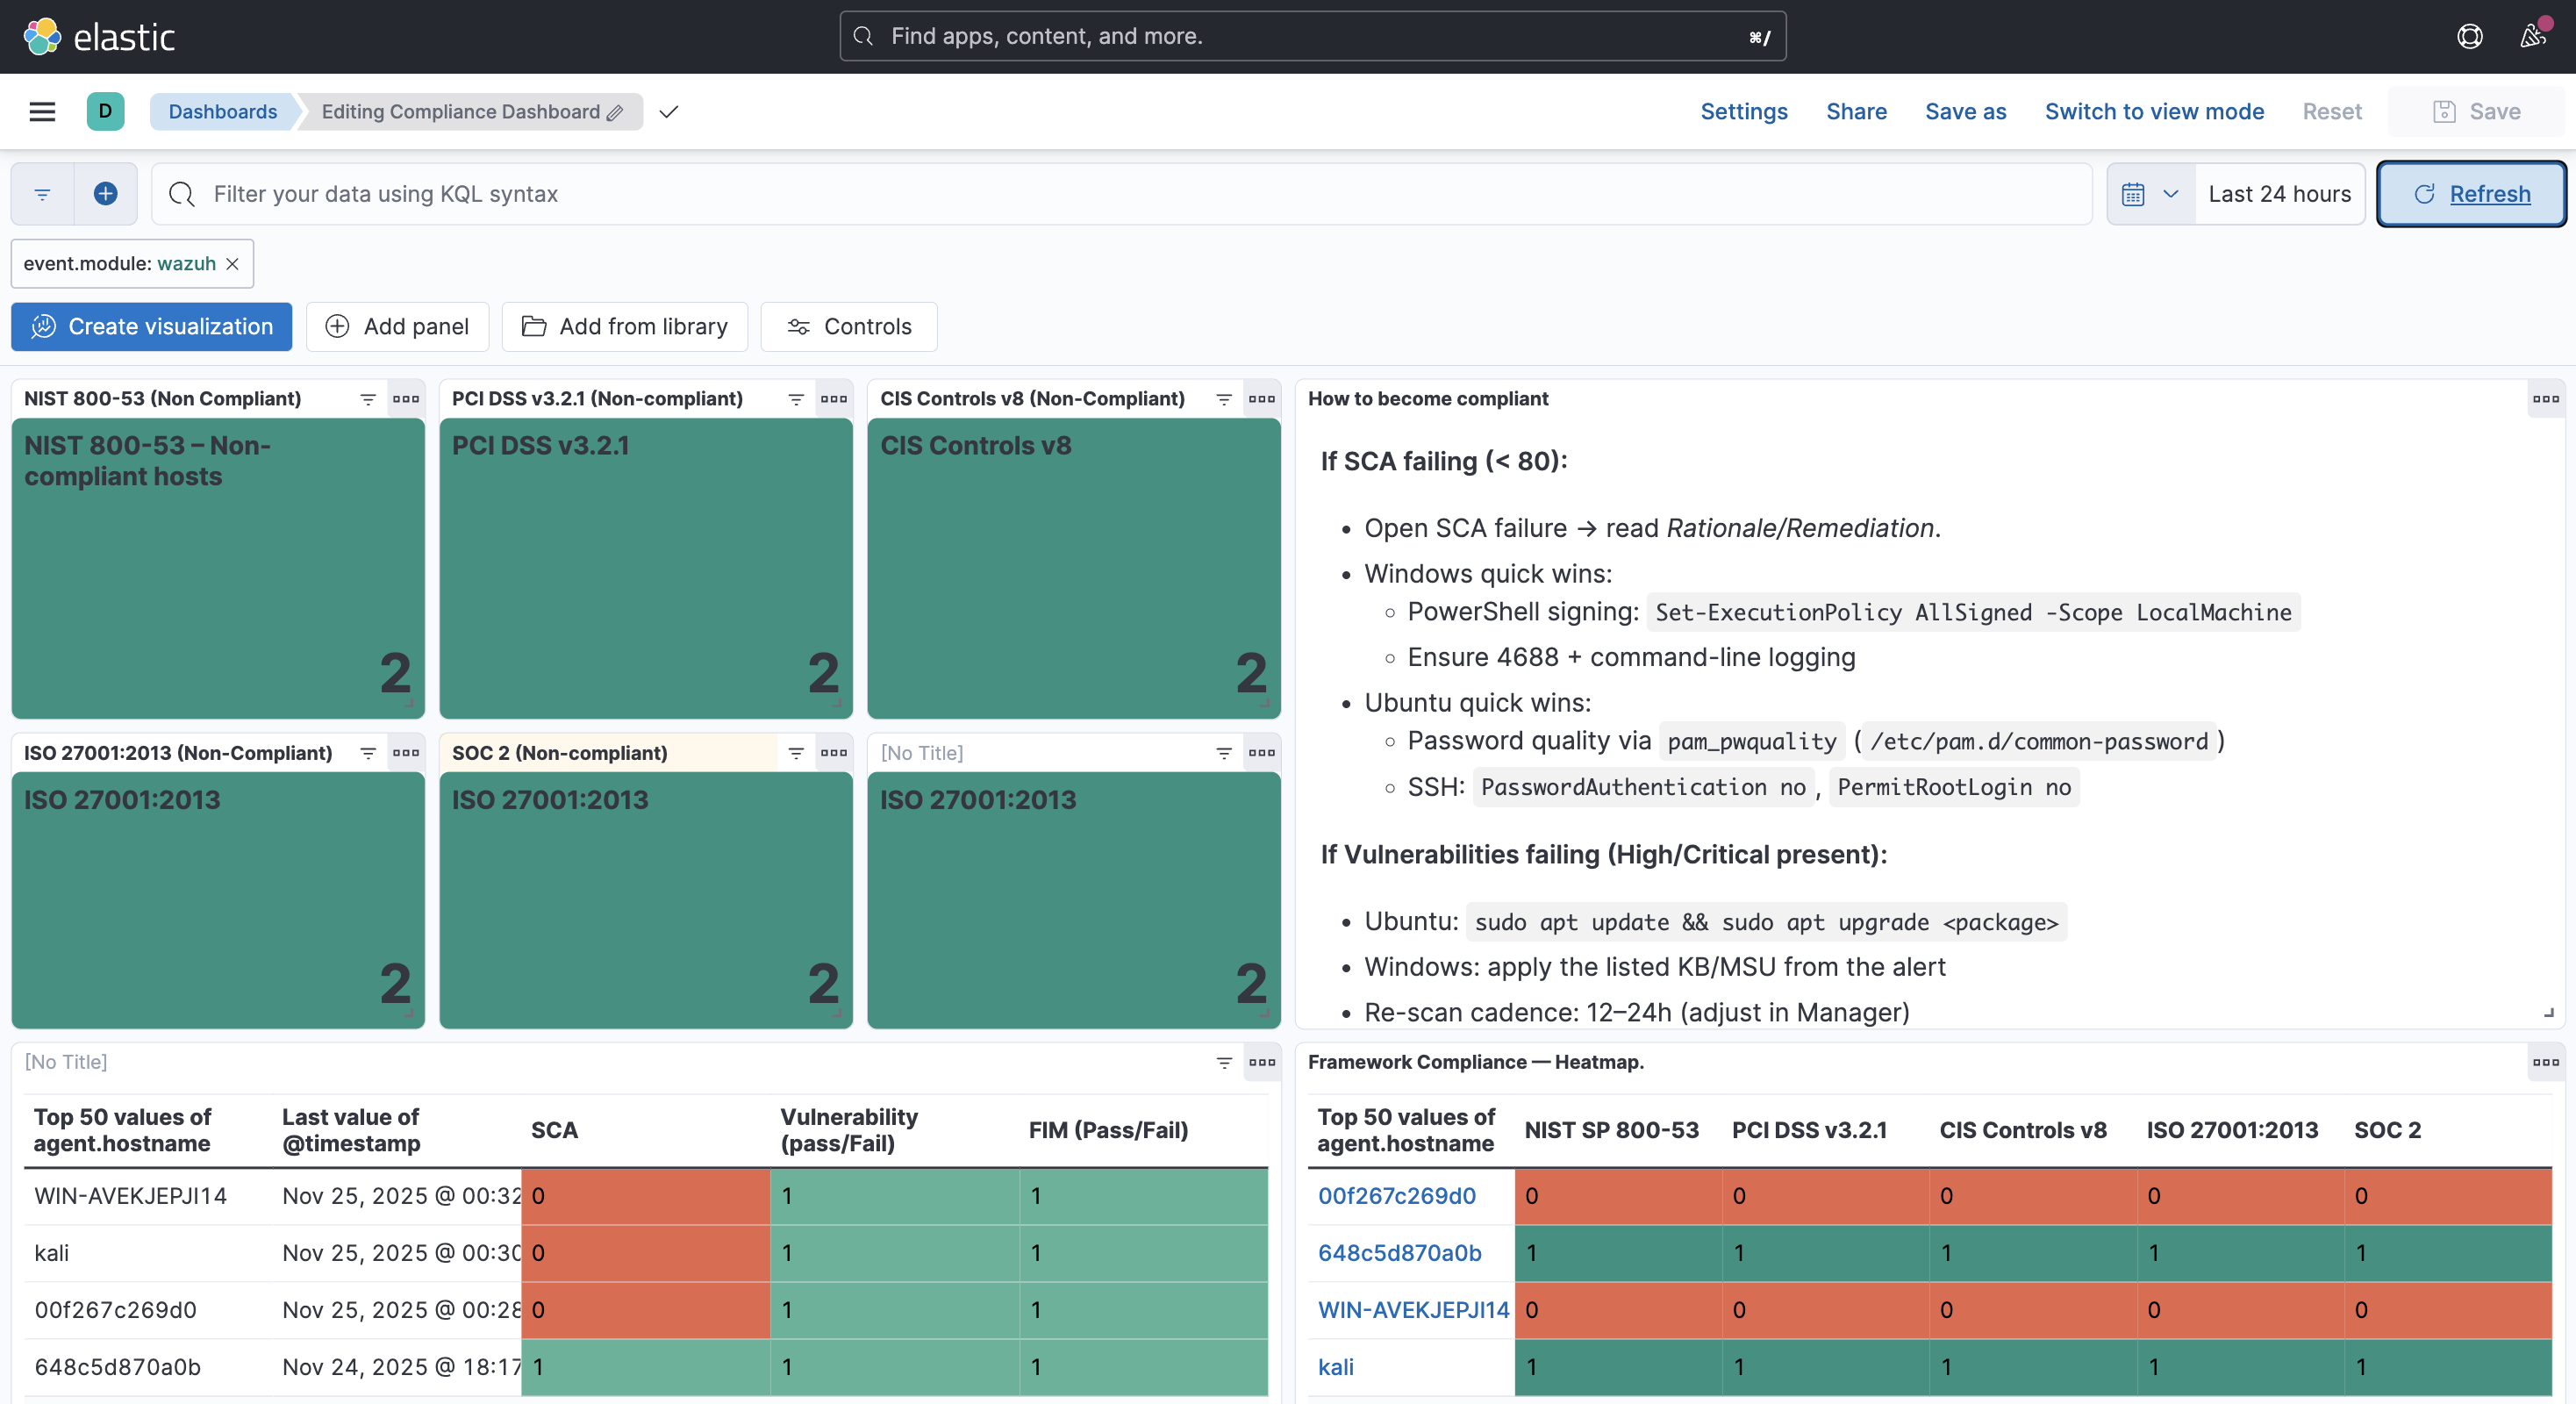
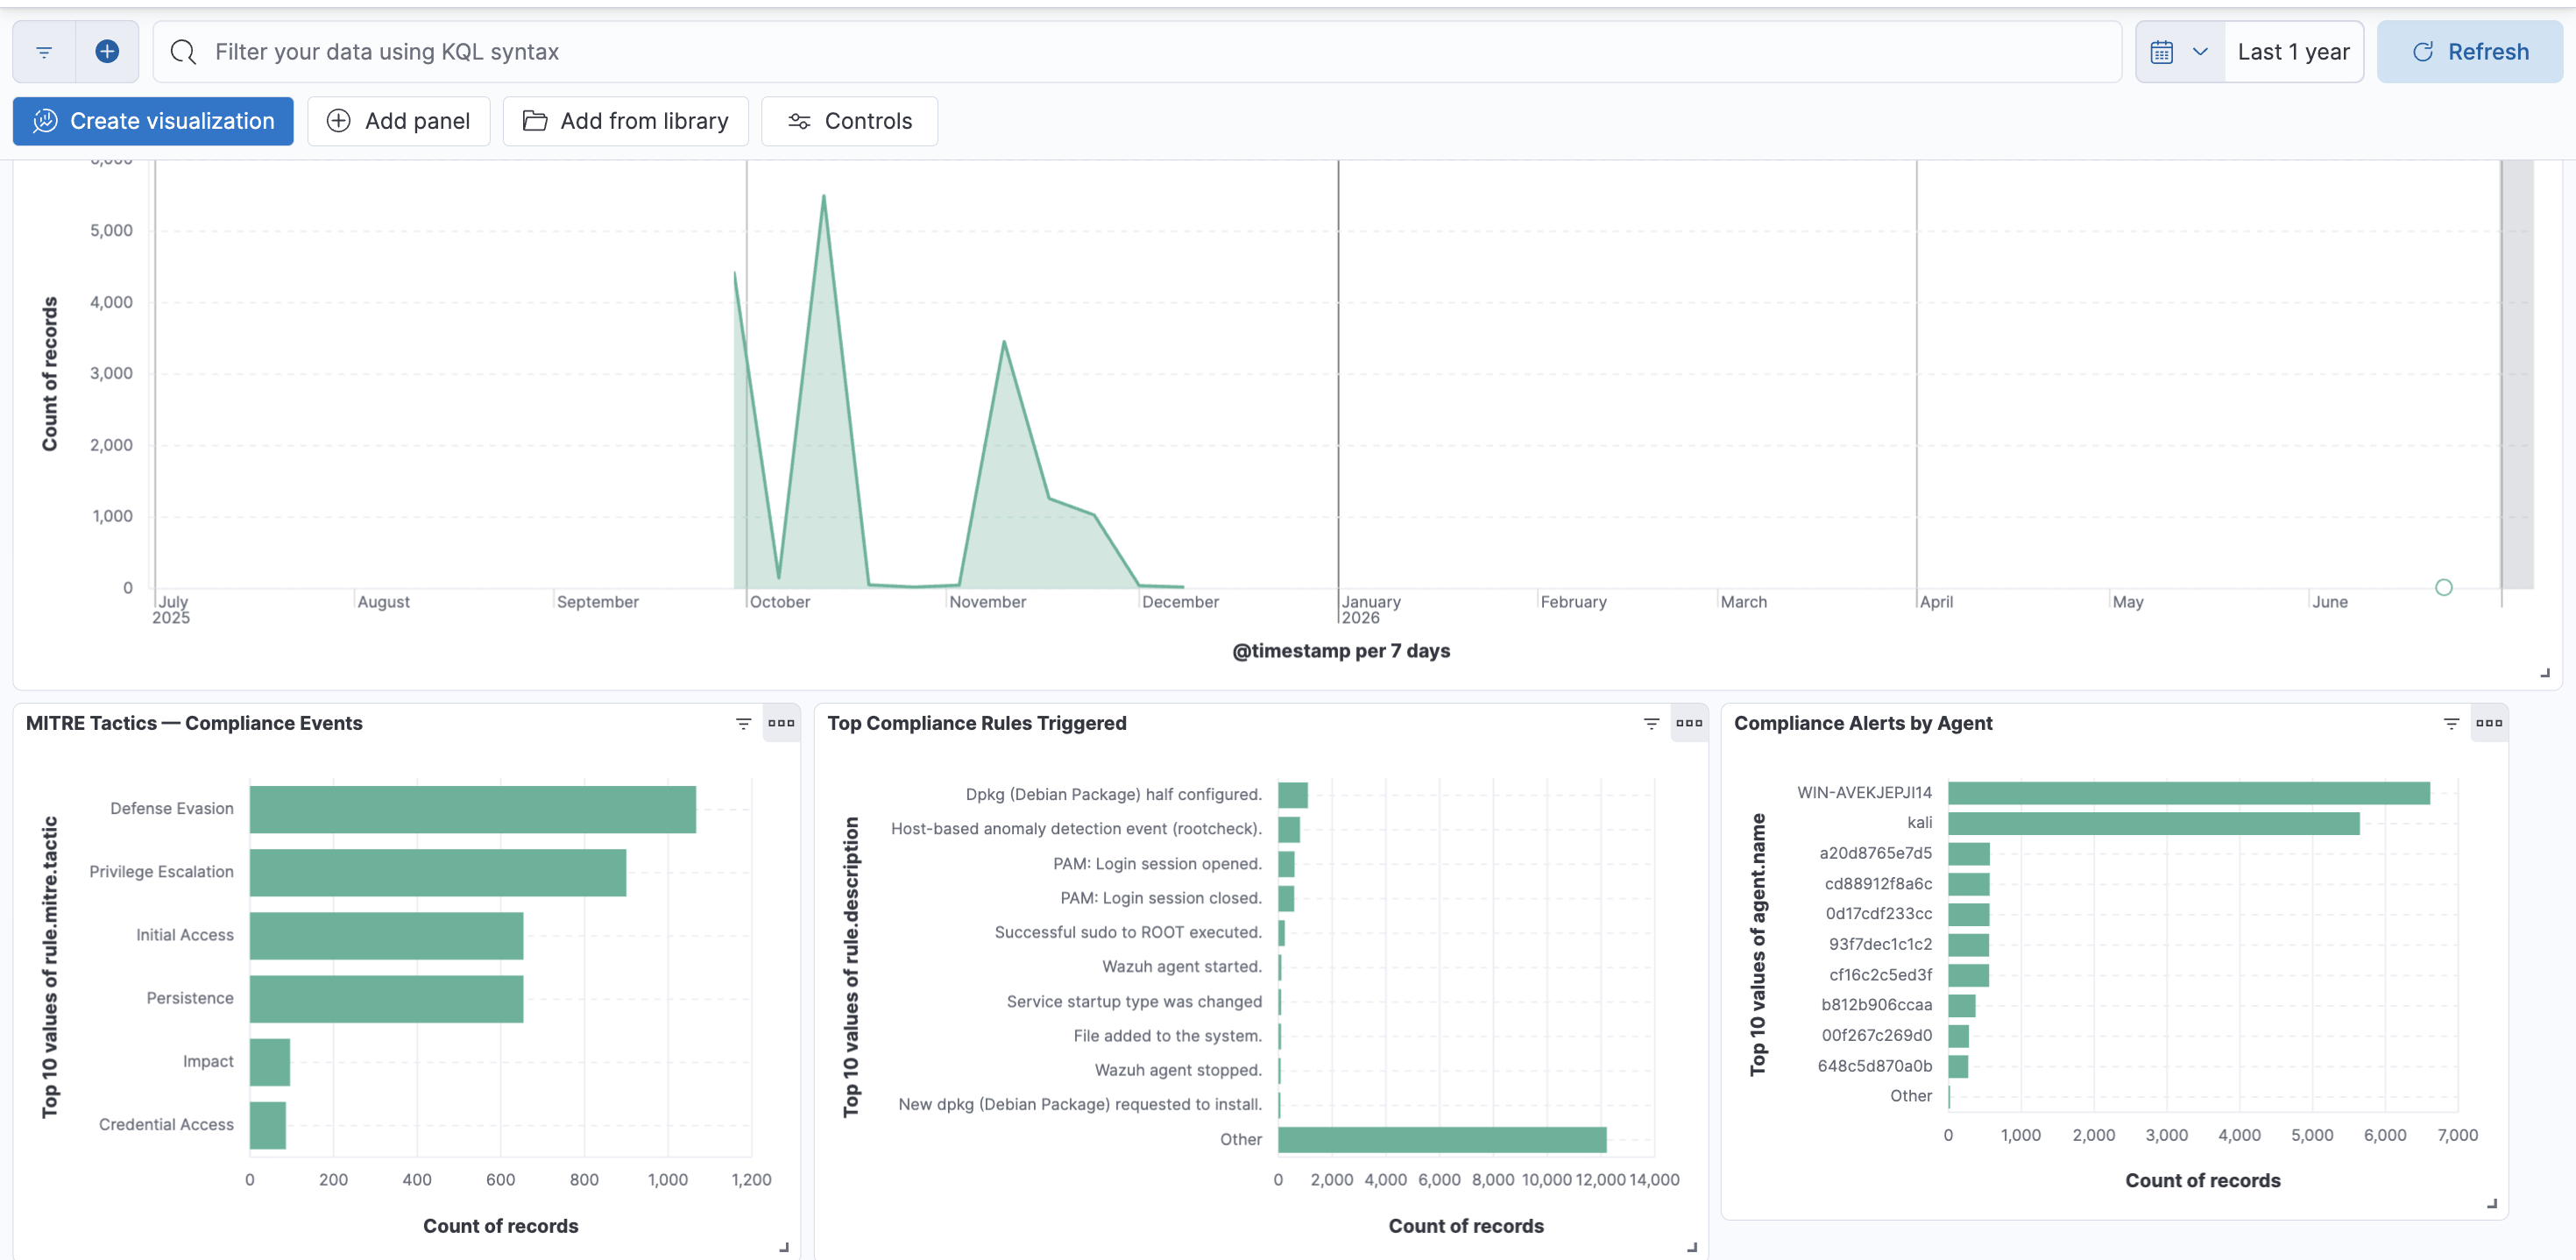
Move TheHive to dedicated port under soc.local instead of separate subdomain

diff --git a/README.md b/README.md
@@ -1,28 +1,175 @@
-# SOCaaS for SMEs – Blue Team Home Lab
+# TIGARSEC SOCaaS — Autonomous SOC for SMEs
 
-**Goal:** Build a scalable, affordable SOC-as-a-Service stack for small & medium enterprises.  
-Current stack: **Elasticsearch + Wazuh + Winlogbeat/Filebeat**.  
-Planned: **Suricata IDS/IPS integration**.
+**An open-source, autonomous Security Operations Centre built for small and medium enterprises who need continuous monitoring without an enterprise budget or a 24/7 analyst team.**
 
-## Why this matters
-- SMEs often lack 24/7 SOC coverage.
-- This lab demonstrates how open-source tooling can provide **visibility**, **detection**, and **actionable alerts** without enterprise costs.
+> A physical person does not need to watch a dashboard all day. The platform detects, triages, enriches, and escalates — a human only gets pulled in when something genuinely matters.
 
-## Architecture (current phase)
-- **Windows & Linux VMs** -> Winlogbeat & Filebeat -> Elasticsearch (raw telemetry).
-- **Wazuh Agents** -> Wazuh Manager (decoders/rules) -> Elasticsearch (curated alerts).
-- **Mac Host** runs Elasticsearch, Kibana, and Wazuh Manager.
-
-## Roadmap
-- [x] Collect host logs (Windows/Linux).
-- [x] Integrate Wazuh alerts into Elastic.
-- [ ] Add Suricata for network IDS/IPS.
-- [ ] Build correlation dashboards (host <-> network <-> alert).
-- [ ] Publish detection rules (Sigma/KQL/Wazuh).
-
-## Next steps
-Documentation, architecture diagrams, detection logic, and test results will be added in `docs/`.
+![Architecture Diagram](docs/images/Architecture.png)
 
 ---
 
- *Work in progress. First milestone: baseline SOC ingest + Wazuh curation.*
+## What this is
+
+Most SMEs fall into one of two traps: they buy a firewall and call it security, or they outsource to a managed provider with zero visibility into what's actually happening on their own systems. Neither gives them a real audit trail, and in regulated sectors like fintech, that absence is a compliance failure waiting to happen.
+
+This project is a fully working alternative — a SOC platform that runs autonomously, triages every alert by severity, enriches critical events with threat intelligence, opens a case automatically, and only notifies a human for things that genuinely require action.
+
+It is built entirely on open-source tooling and is designed to be deployable by a single person on a laptop, a VM, or a small dedicated server.
+
+---
+
+## Architecture
+
+```
+[Agents: Windows / Linux / Sysmon]
+              ↓
+       [Wazuh Manager]
+   (detection, rules, FIM, vuln scanning)
+              ↓
+   ┌──────────┴──────────┐
+   ↓                      ↓
+[Filebeat]          [Wazuh Integration]
+   ↓                      ↓
+[Elasticsearch]      [n8n webhook]
+   ↓                      ↓
+[Kibana]            [Severity triage]
+                    Level ≥ 12 → AbuseIPDB enrichment
+                          ↓
+                    [TheHive case created]
+                          ↓
+                    [WhatsApp / Slack / Email]
+```
+
+**Detection layer** — Wazuh Manager applies decoders and rules to every agent event, flags file integrity violations, runs vulnerability scans against NVD/vendor feeds, and tags alerts with PCI-DSS, GDPR, HIPAA, and MITRE ATT&CK metadata out of the box.
+
+**Storage and visualisation** — Filebeat ships every alert into Elasticsearch. Kibana provides four purpose-built dashboards: Security Overview, Authentication, PCI-DSS Compliance, and Agent Health.
+
+**Automation layer** — every alert at severity level 7+ is forwarded via webhook to n8n, an open-source workflow engine. Alerts are triaged by severity, critical events (level 12+) are enriched with AbuseIPDB threat intelligence, and a case is automatically opened in TheHive.
+
+**Notification layer** — critical alerts are pushed to WhatsApp with full context (rule, affected host, source IP, AbuseIPDB confidence score, country, ISP) so an analyst can make a decision without opening a dashboard first.
+
+---
+
+## Stack
+
+| Component | Role |
+|---|---|
+| [Wazuh](https://wazuh.com) | Host-based detection, FIM, vulnerability scanning |
+| [Elasticsearch](https://www.elastic.co) | Log storage and indexing |
+| [Kibana](https://www.elastic.co/kibana) | Dashboards and visualisation |
+| [n8n](https://n8n.io) | SOAR — alert triage, enrichment, automation |
+| [TheHive](https://strangebee.com/thehive) | Case management and audit trail |
+| [AbuseIPDB](https://www.abuseipdb.com) | IP reputation enrichment |
+| Docker / Docker Compose | Full containerised deployment |
+
+---
+
+## What it detects
+
+Wazuh ships with rules covering SSH, web servers, databases, Windows security events, cloud platforms, and dozens of other sources. On top of that, this project adds a custom rule layer designed for multi-sector SOC delivery:
+
+- `local_rules.xml` — base rules applied to every client (brute force escalation, privilege escalation, critical file integrity, CVE severity elevation)
+- `tigarsec-fintech-rules.xml` — PCI-DSS mapped rules (failed sudo, after-hours access, SQL injection, web scanner detection, credential stuffing indicators)
+- `tigarsec-healthcare-rules.xml` / `tigarsec-legal-rules.xml` — sector-specific placeholders, populated per client via Wazuh agent groups
+
+This structure means a single Wazuh manager can serve multiple clients across different regulated sectors without rules bleeding between them.
+
+---
+
+## Dashboards
+
+| Dashboard | Purpose |
+|---|---|
+| Security Overview | Alert volume, severity distribution, top triggered rules, top source IPs |
+| Authentication | Failed login trends, most targeted users, failures by agent |
+| PCI-DSS Compliance | Controls triggered, MITRE ATT&CK tactic breakdown, compliance trend over time |
+| Agent Health | Active agent count, alert volume per agent, last-seen timestamps |
+
+![Compliance Dashboard](docs/images/dashboard-compliance1.png)
+
+---
+
+## Quick Start
+
+### Prerequisites
+- Docker Desktop
+- 8GB+ RAM available to Docker
+- A free [AbuseIPDB](https://www.abuseipdb.com/register) API key
+
+### 1. Clone and configure
+
+```bash
+git clone https://github.com/NICANDIAS/SOCaaS_for_SMEs.git
+cd SOCaaS_for_SMEs
+```
+
+### 2. Bring up the stack
+
+```bash
+docker compose up -d
+```
+
+This starts Elasticsearch, Kibana, Wazuh Manager, Filebeat, n8n, TheHive, and Cassandra.
+
+### 3. Import the n8n workflow
+
+1. Open `http://localhost:5678`
+2. Import `n8n-workflows/wazuh-triage-workflow.json`
+3. Add your AbuseIPDB API key and notification credentials to the relevant nodes
+4. Publish the workflow
+
+### 4. Import the Kibana dashboards
+
+1. Open `http://localhost:5601`
+2. Go to **Stack Management → Saved Objects → Import**
+3. Import `kibana-dashboards/tigarsec-dashboards.ndjson`
+
+### 5. Connect the webhook
+
+Update `ossec.conf`'s integration block to point at your n8n production webhook URL, then restart Wazuh:
+
+```bash
+docker exec <wazuh-manager-container> /var/ossec/bin/wazuh-control restart
+```
+
+### 6. Install an agent
+
+See [docs/04-Agent-Deployment.md](docs/04-Agent-Deployment.md) for Windows, Linux, and macOS install commands.
+
+---
+
+## Roadmap
+
+- [x] Wazuh + Elasticsearch + Kibana detection pipeline
+- [x] n8n SOAR integration with severity-based triage
+- [x] AbuseIPDB threat intelligence enrichment
+- [x] TheHive case management automation
+- [x] WhatsApp critical and medium alert notifications
+- [x] Multi-sector rule architecture (fintech rules live, healthcare/legal scaffolded)
+- [x] Four production Kibana dashboards
+- [ ] Slack and email notification channels
+- [ ] Dashboard drill-down to raw event investigation
+- [ ] Active response — automatic IP blocking for confirmed threats
+- [ ] Suricata network IDS integration
+- [ ] WireGuard VPN for secure agent-to-manager communication
+- [ ] Multi-tenant agent group isolation for managed service delivery
+
+---
+
+## Documentation
+
+Detailed architecture decisions, dashboard usage guides, and deployment notes live in [`docs/`](docs/).
+
+---
+
+## Why this exists
+
+This project started as a PhD researcher's home lab and grew into a functioning SOC-as-a-Service platform. It exists to prove that meaningful, audit-ready security monitoring doesn't require an enterprise budget — just the right open-source tools, wired together with intent.
+
+If you're an SME, an MSP looking to add SOC capability, or a security professional evaluating the approach, feel free to open an issue or get in touch.
+
+---
+
+## License
+
+MIT — see [LICENSE](LICENSE).